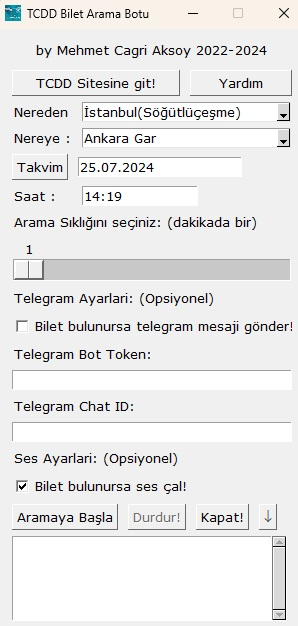
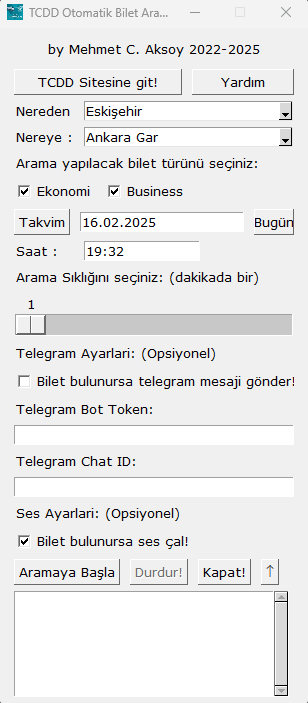
V3 release

diff --git a/README.md b/README.md
@@ -31,13 +31,17 @@ Güvenli: Kullanıcı bilgilerini güvenli bir şekilde işleme. Hic bir kisisel
 
 
 ## Versionlar
+v3
+
+- Yenilenen tcdd websitesi icin uyum saglandi.
+- Kod tamamen yenilendi!
+- Arama algoritmasi yeni siteye uyum saglandi.
+
+![Screenshot](https://github.com/mcagriaksoy/tcdd-bilet-yer-kontrol/blob/master/img/Screenshot_2.jpg)
+
 v2.4
 
 - Takvimden kaynaklanan bir sorun cozuldu.
-
-Yeni UI:
-
-![Screenshot](https://github.com/mcagriaksoy/tcdd-bilet-yer-kontrol/blob/master/img/Screenshot_2.jpg)
 
 v2.3
 
